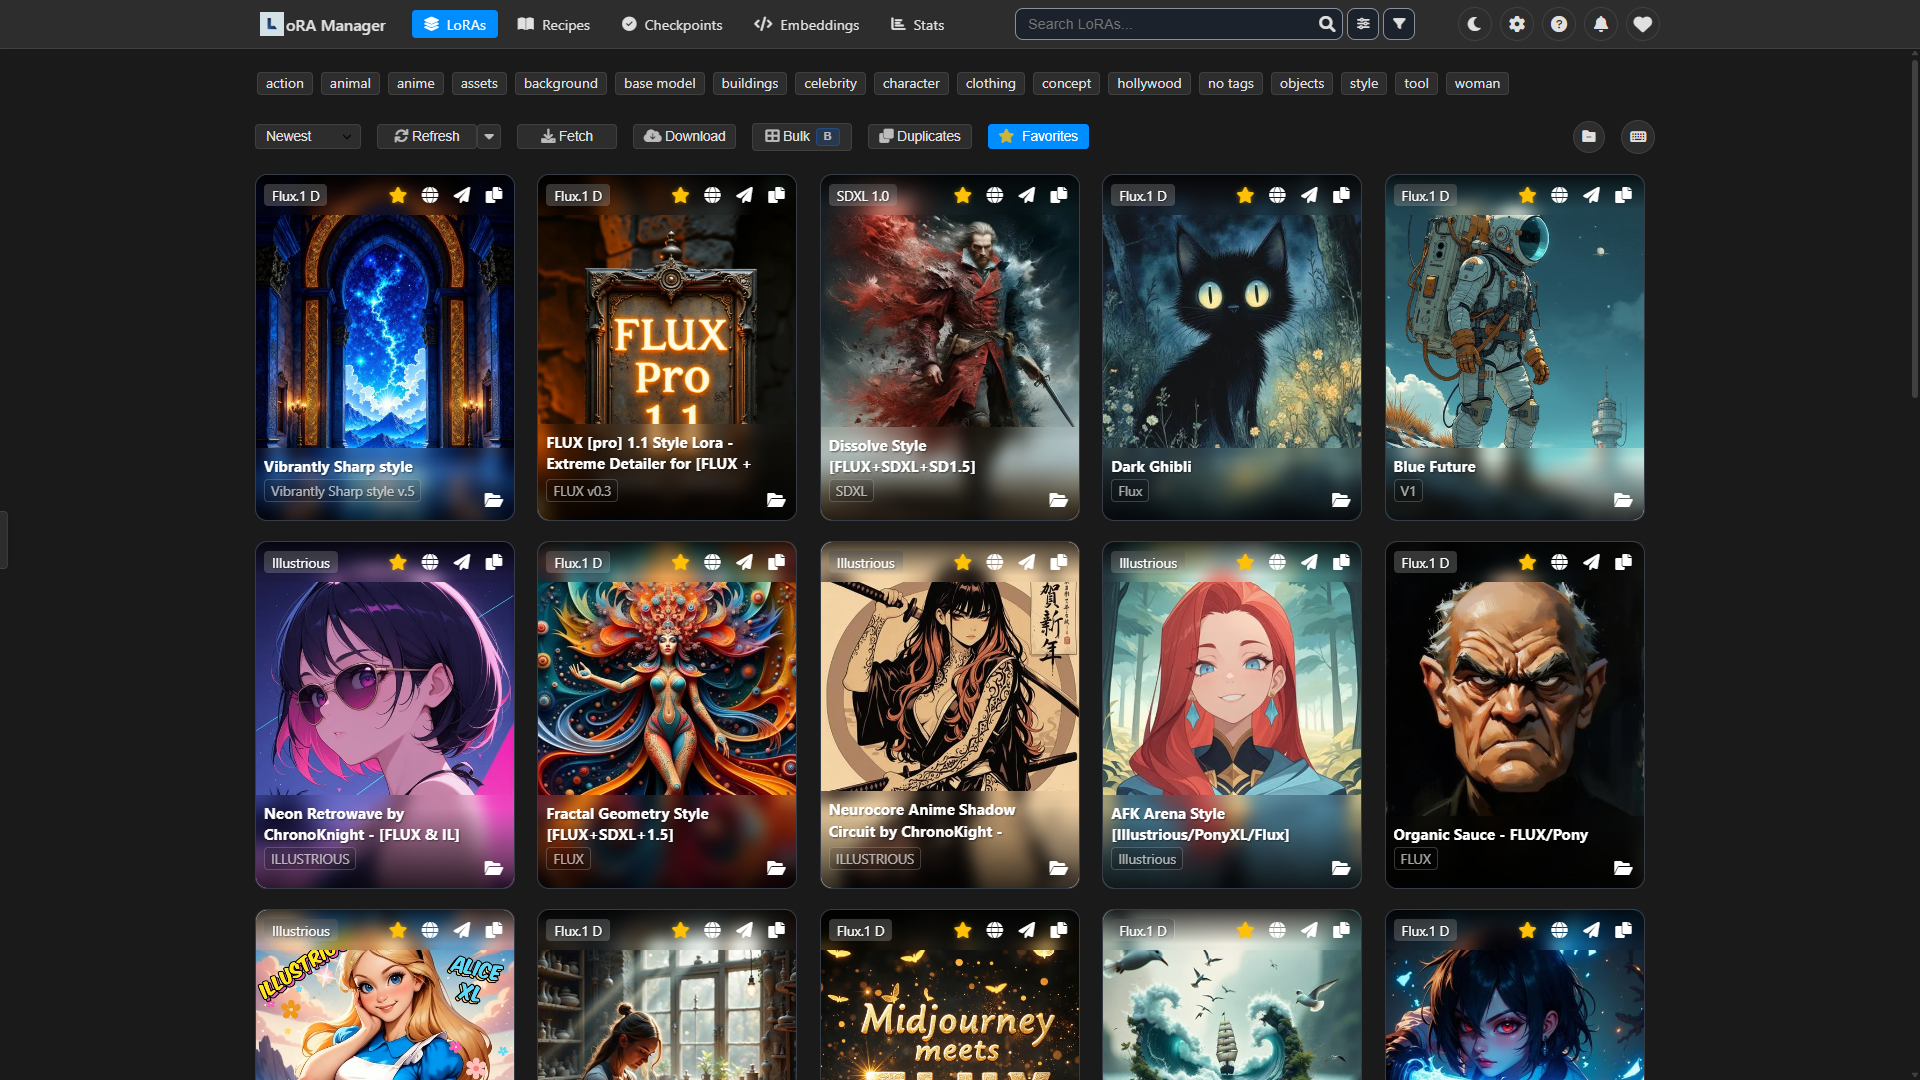
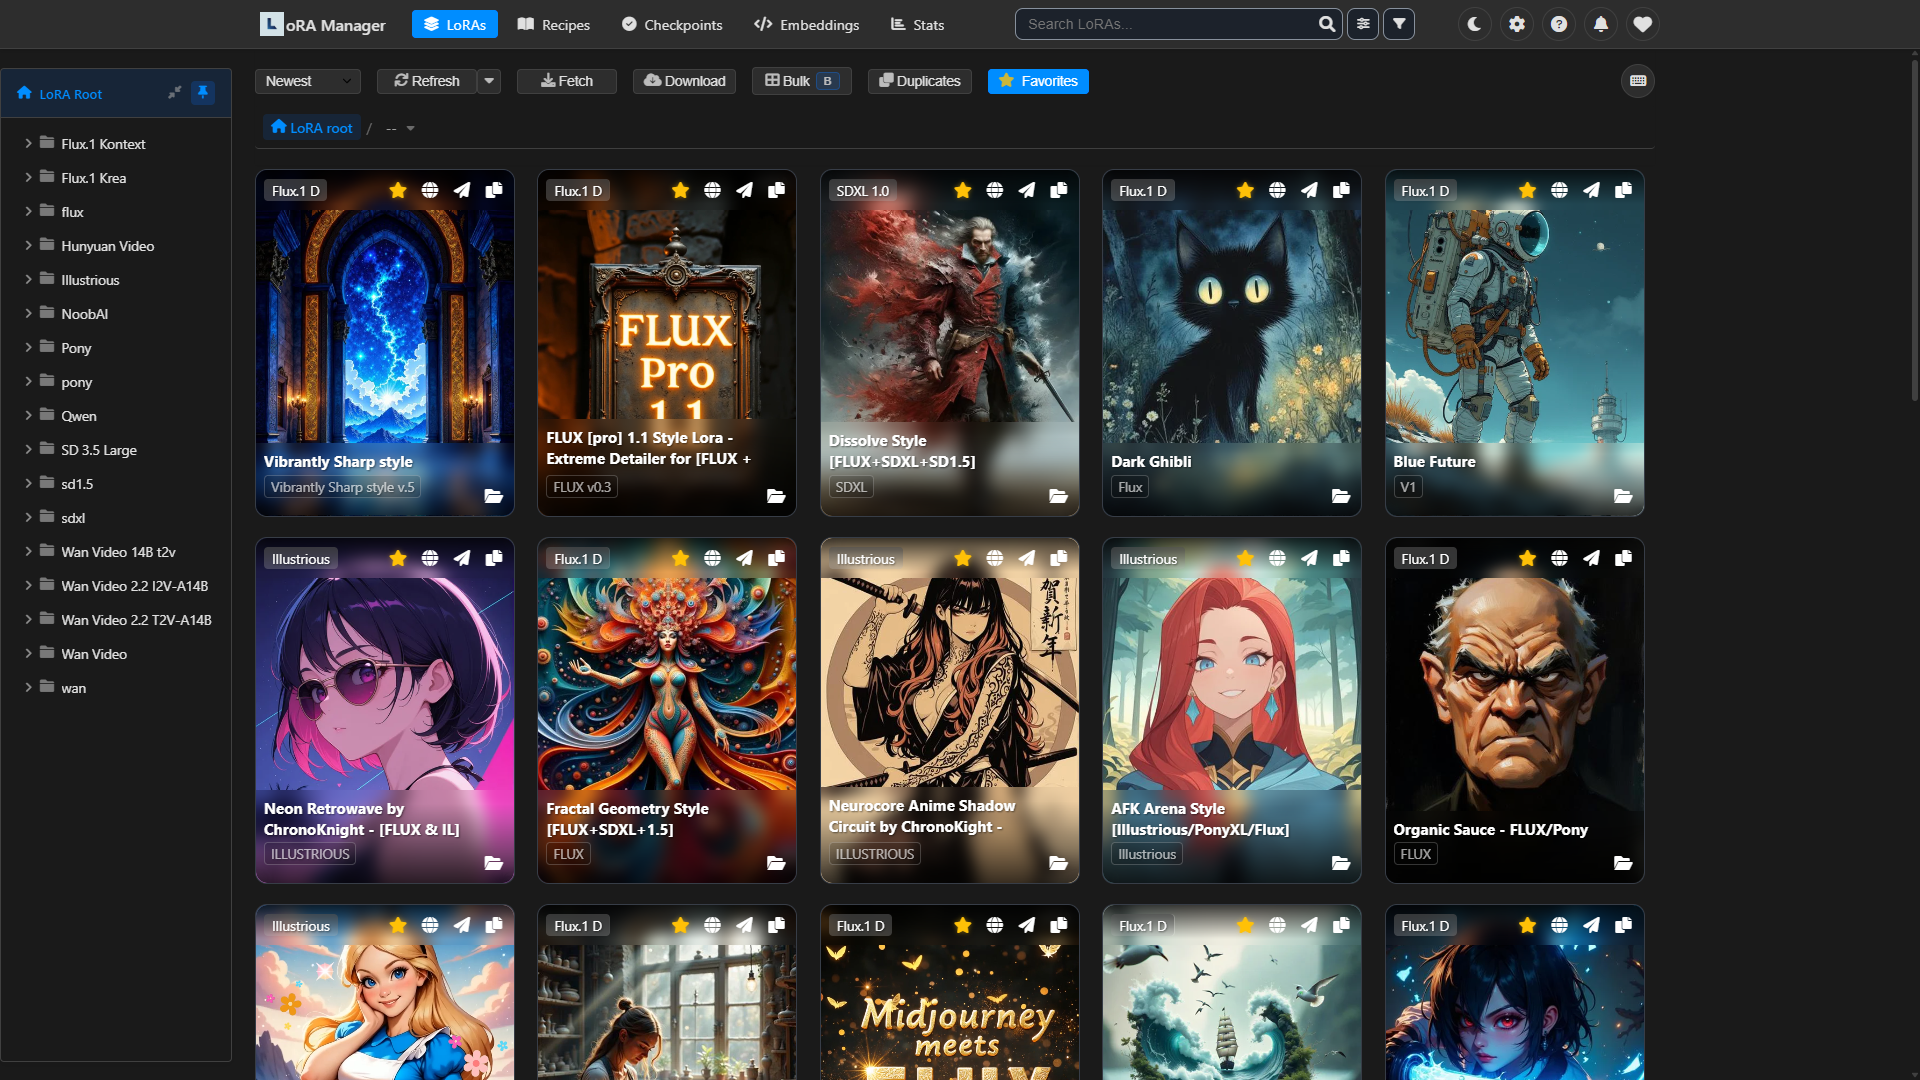
feat: Update restoreSelectedFolder to ensure activeFolder is a string before assignment and reset selectedPath if not

Changed region(s): [[0.0, 0.0611, 0.875, 1.0], [0.8438, 0.0611, 0.875, 0.0917], [0.6875, 0.4583, 0.7188, 0.4889]]

diff --git a/static/js/components/SidebarManager.js b/static/js/components/SidebarManager.js
@@ -754,12 +754,13 @@ export class SidebarManager {
 
     restoreSelectedFolder() {
         const activeFolder = getStorageItem(`${this.pageType}_activeFolder`);
-        if (activeFolder) {
+        if (activeFolder && typeof activeFolder === 'string') {
             this.selectedPath = activeFolder;
             this.updateTreeSelection();
             this.updateBreadcrumbs();
             this.updateSidebarHeader();
         } else {
+            this.selectedPath = '';
             this.updateSidebarHeader();
             this.updateBreadcrumbs(); // Always update breadcrumbs
         }
